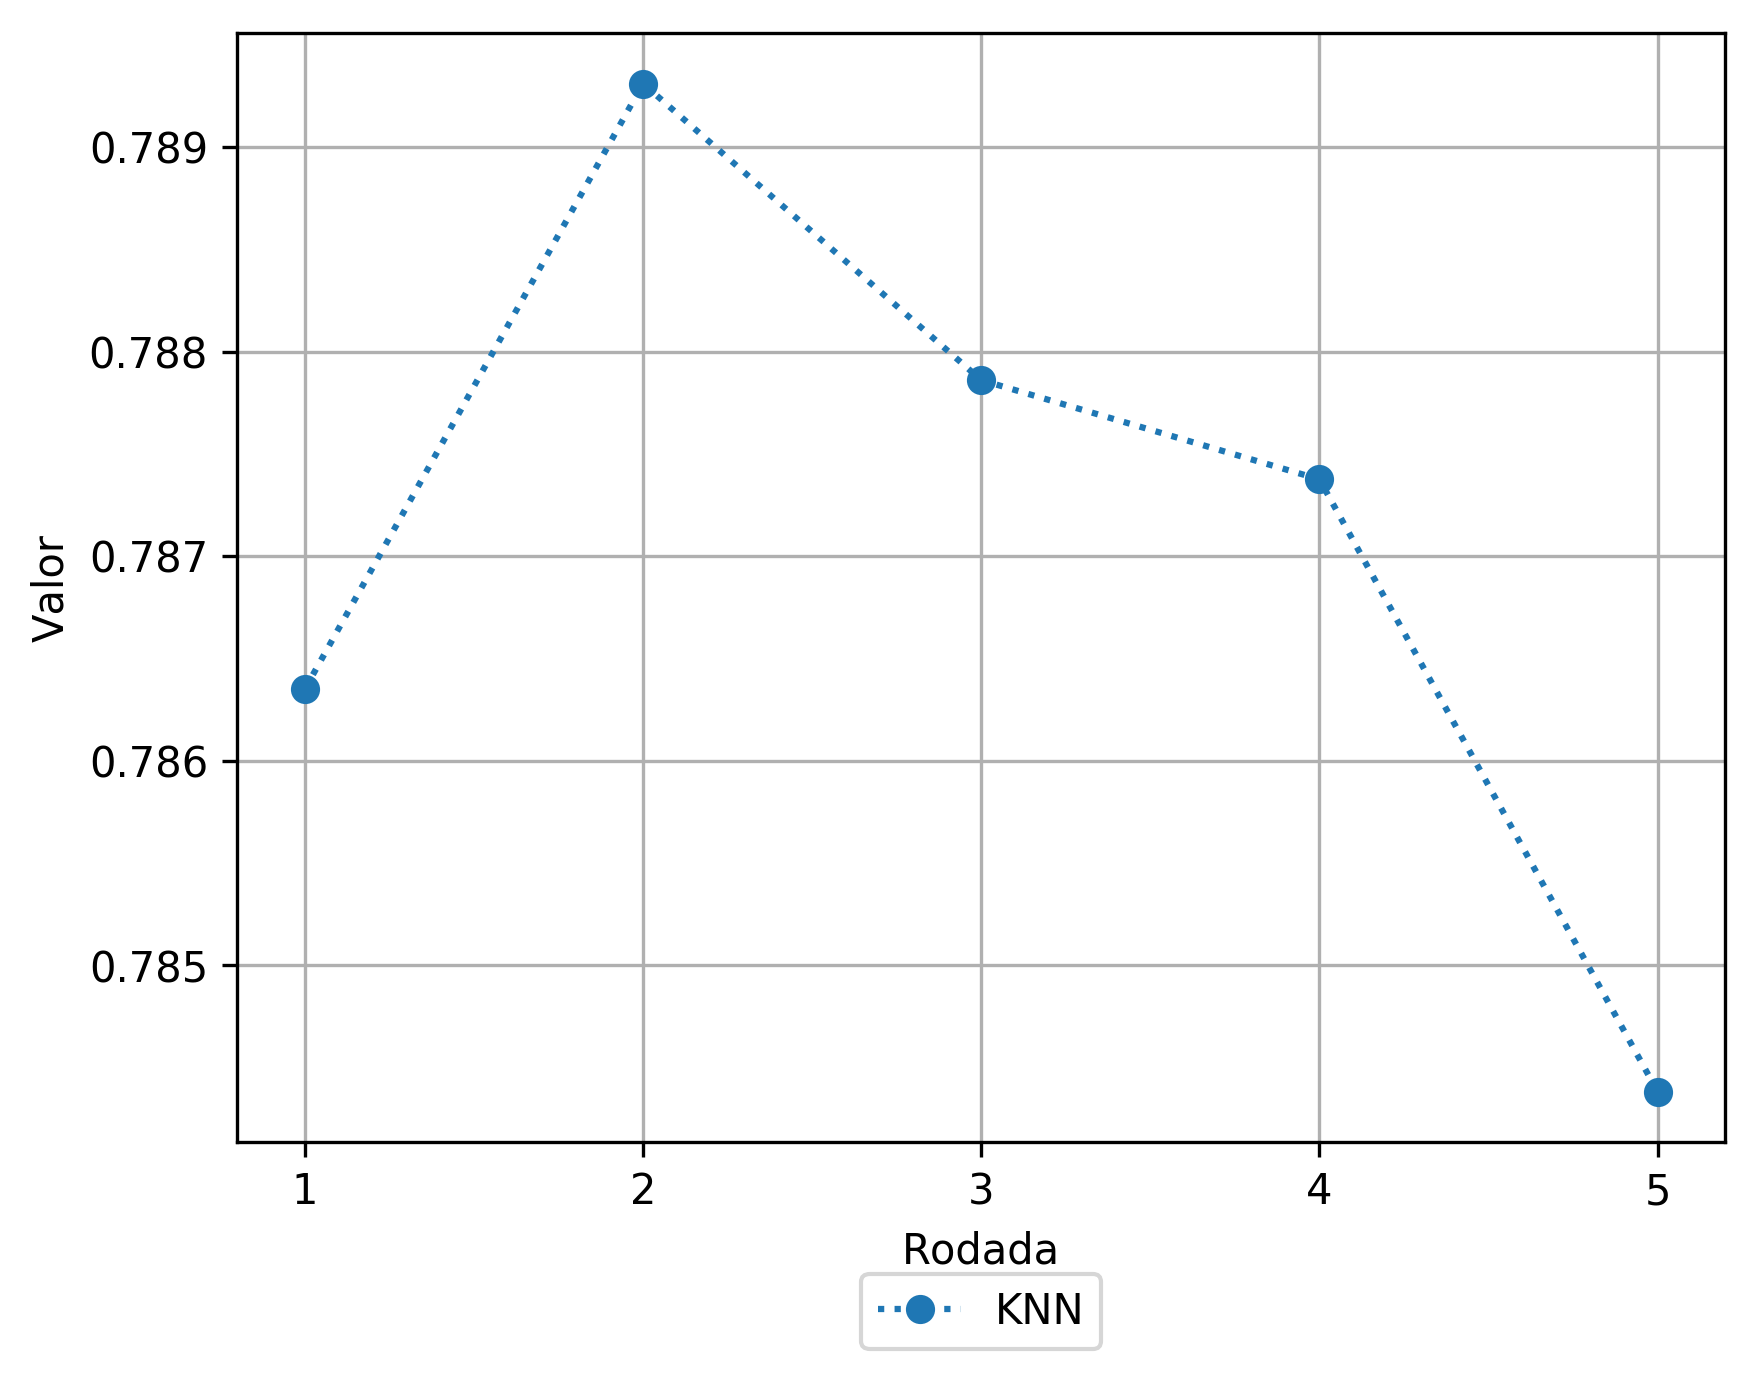
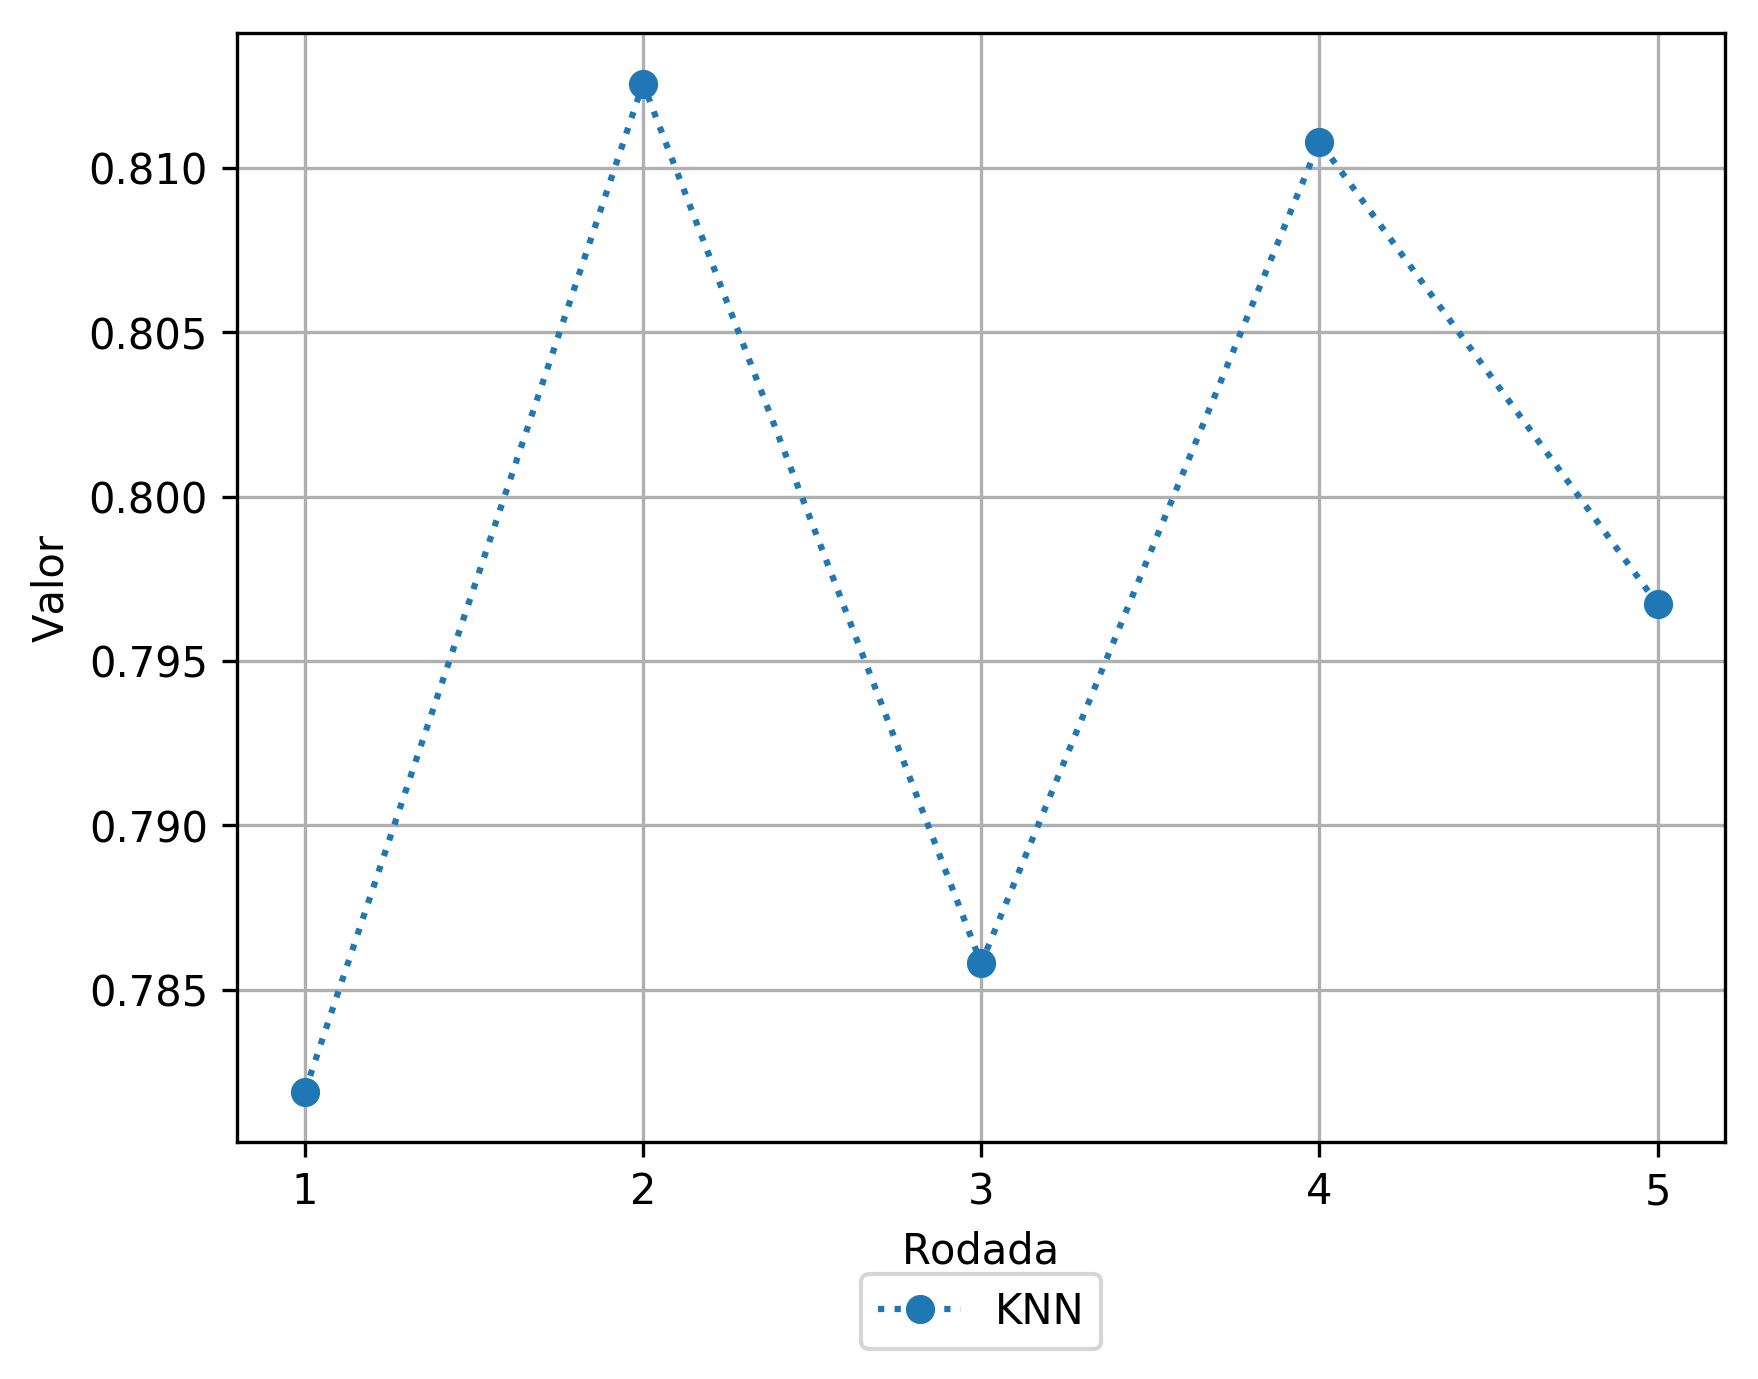
user average funcionando e gerando resultados

diff --git a/src/kemures/recommenders/UserAverage/user_average_controller.py b/src/kemures/recommenders/UserAverage/user_average_controller.py
@@ -7,20 +7,19 @@ from src.globalVariable import GlobalVariable
 class UserAverageController:
     @staticmethod
     def start_ranking(similarity_data_df, user_model_ids, song_model_ids):
-        user_model_df = similarity_data_df.loc[user_model_ids]
         song_model_df = similarity_data_df.loc[song_model_ids]
         song_model_df = song_model_df.drop(columns=song_model_ids)
         recommendation_list = {}
-        for column in song_model_df.columns:
-            column_values = song_model_df[column].values.tolist()
-            column_values = [i for i in column_values if i != 0.0]
-            if len(column_values) == 0:
+        for song_id in song_model_ids:
+            song_values = song_model_df.loc[song_id].values.tolist()
+            if len(song_values) == 0:
+                recommendation_list[song_id] = [0]
                 continue
-            similarity = float(sum(column_values)) / float(
-                len(user_model_df.index))
+            similarity = float(sum(song_values)) / float(
+                len(user_model_ids))
             if similarity == 0.0:
                 continue
-            recommendation_list[column] = [similarity]
+            recommendation_list[song_id] = [similarity]
         user_recommendations_df = pd.DataFrame.from_dict(data=dict(recommendation_list), orient='index',
                                                          columns=['similarity'])
         resp_user_recommendation_df = user_recommendations_df.sort_values(by=['similarity'], ascending=False).iloc[

diff --git a/src/machine_learning/sklearn_config.py b/src/machine_learning/sklearn_config.py
@@ -44,10 +44,12 @@ class MachineAlgorithms:
         user_set = pd.concat([x_train, x_test])
         cos = pd.DataFrame(data=np.matrix(cosine_similarity(X=user_set)), columns=user_set.index.tolist(),
                            index=user_set.index.tolist())
-        u = UserAverageController.start_ranking(similarity_data_df=cos,
-                                                user_model_ids=x_train.index.values.tolist(),
-                                                song_model_ids=x_test.index.values.tolist())
-        print(u)
+        user_list = UserAverageController.start_ranking(similarity_data_df=cos,
+                                                        user_model_ids=x_train.index.values.tolist(),
+                                                        song_model_ids=x_test.index.values.tolist())
+        other = pd.DataFrame(data=[], index=x_test.index.values.tolist())
+        other['pred_like'] = y_test
+        print(pd.concat([user_list, other], axis=1, sort=False))
         return ml_pred_result
 
     @staticmethod
